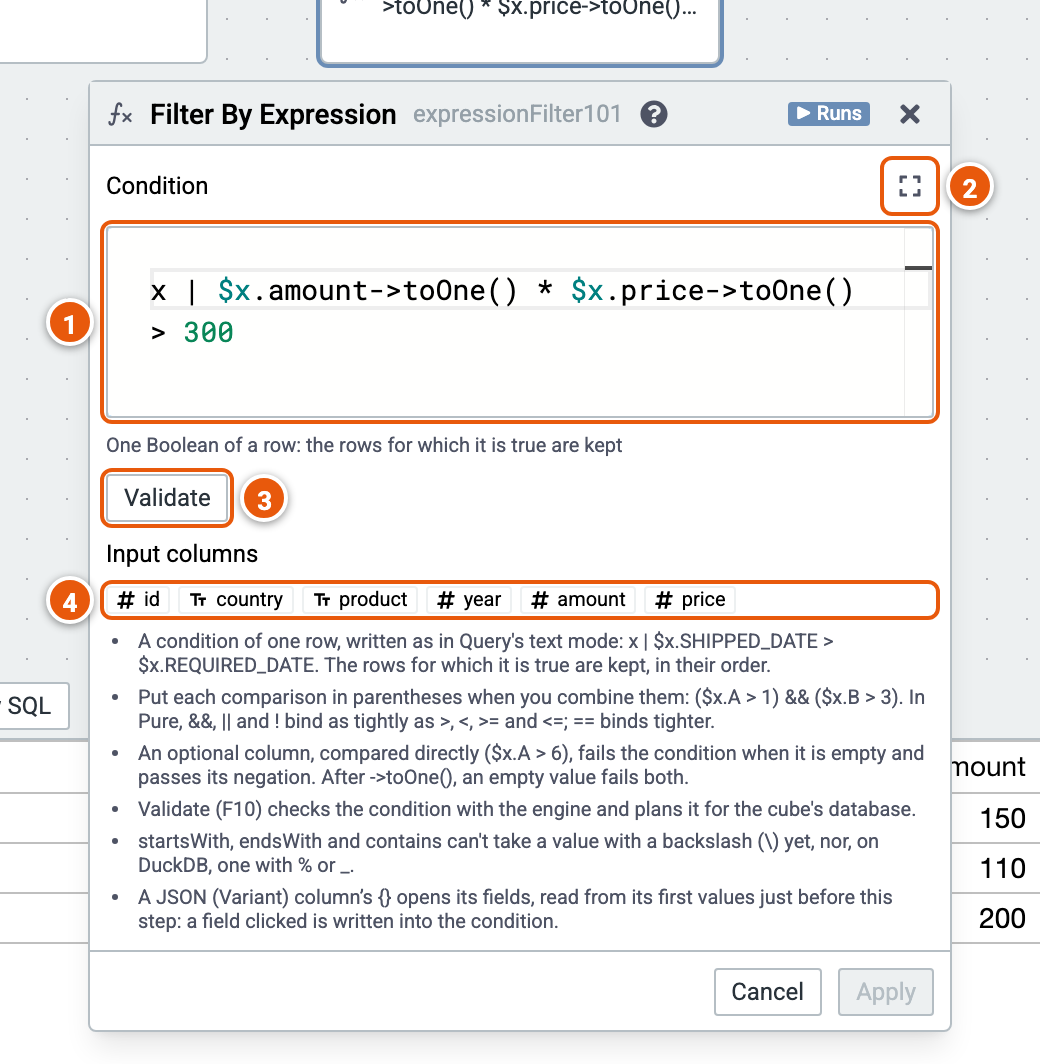
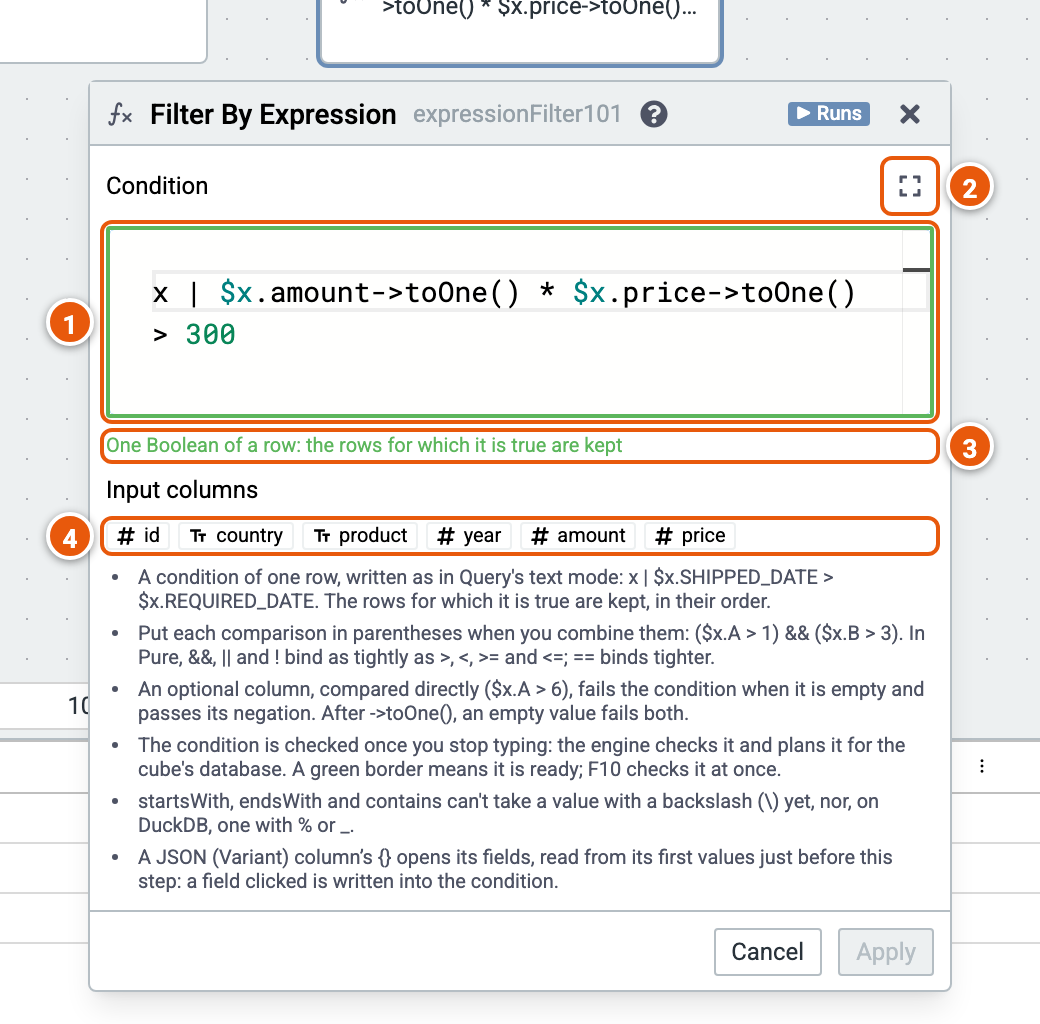
docs(cube): the guide's Filter by Expression and Extend checked as typed, with completions
Their images regenerated by the screenshot script, which no longer clicks
Validate.

diff --git a/packages/legend-cube-builder/src/stores/editors/CubeExtendDraft.ts b/packages/legend-cube-builder/src/stores/editors/CubeExtendDraft.ts
@@ -77,7 +77,7 @@ export interface CubeExtendCheckedCode {
   readonly located: JsonObject;
 }
 
-/** A row's problem from the last Validate: the engine's message, where it is in the code, and a hint */
+/** A row's problem from the last check: the engine's message, where it is in the code, and a hint */
 export interface CubeExtendRowProblem {
   readonly message: string;
   readonly location?: CubeSourceLocation | undefined;
@@ -129,7 +129,7 @@ export class CubeExtendDraft extends CubeNodeDraft<Extend> {
   /** A Variant input column's fields, opened from its chip (PLAN §11.20, V.9) */
   readonly jsonFields: CubeJsonFieldsState;
   rows: readonly CubeExtendRow[];
-  /** The typing the last Validate gave, for the rows as they were then */
+  /** The typing the last check gave, for the rows as they were then */
   typing: ExtendTyping | undefined;
   validating = false;
   /** Anything was changed; until then, `build()` gives the original back */
@@ -351,7 +351,7 @@ export class CubeExtendDraft extends CubeNodeDraft<Extend> {
     );
   }
 
-  /** A code edit drops the row's problem and type, until the next Validate */
+  /** A code edit drops the row's problem and type, until it is checked again */
   setCode(key: number, code: string): void {
     this.change(
       this.rows.map((row) =>
@@ -401,7 +401,7 @@ export class CubeExtendDraft extends CubeNodeDraft<Extend> {
 
   /**
    * Checks every row with the engine (F10): parses each code changed since
-   * the last Validate, then, when every code parses and the input is valid,
+   * the last check, then, when every code parses and the input is valid,
    * types the columns after the input, located in their codes, and plans the
    * query up to this node for the cube's database; a plan that fails is
    * planned again column by column to find the first that fails. Each

diff --git a/packages/legend-cube-builder/src/stores/editors/CubeExpressionFilterDraft.ts b/packages/legend-cube-builder/src/stores/editors/CubeExpressionFilterDraft.ts
@@ -74,7 +74,7 @@ export interface CubeConditionCheckedCode {
   readonly located: JsonObject;
 }
 
-/** The condition's problem from the last Validate: a message, where it is in the code, and a hint */
+/** The condition's problem from the last check: a message, where it is in the code, and a hint */
 export interface CubeConditionProblem {
   readonly message: string;
   readonly location?: CubeSourceLocation | undefined;
@@ -131,9 +131,9 @@ export class CubeExpressionFilterDraft extends CubeNodeDraft<ExpressionFilter> {
   code: string;
   /** What the engine made of the code the last time it parsed it */
   checked: CubeConditionCheckedCode | undefined;
-  /** The problem from the last Validate, while the code is the one validated */
+  /** The problem from the last check, while the code is the one validated */
   problem: CubeConditionProblem | undefined;
-  /** The check the last Validate gave, for the code as it was then */
+  /** The check the last check gave, for the code as it was then */
   check: ExpressionCheck | undefined;
   validating = false;
   /** Anything was changed; until then, `build()` gives the original back */
@@ -300,7 +300,7 @@ export class CubeExpressionFilterDraft extends CubeNodeDraft<ExpressionFilter> {
 
   /**
    * Checks the condition with the engine (F10): parses the code when it
-   * changed since the last Validate, checks Cube's own rules and the
+   * changed since the last check, checks Cube's own rules and the
    * database's, then, when the input is valid, checks the condition after
    * the input, located in the code, and plans the query up to this node for
    * the cube's database

diff --git a/packages/legend-application-query-e2e/src/user-guide/CubeSteps.screenshots.ts b/packages/legend-application-query-e2e/src/user-guide/CubeSteps.screenshots.ts
@@ -100,7 +100,15 @@ const STEP_CALLOUTS: Record<string, (editor: Locator) => Callout[]> = {
   expressionFilter: (editor) => [
     { n: 1, targets: [label(editor, 'Condition')], at: 'left' },
     { n: 2, targets: [label(editor, 'Expand the condition')], at: 'right' },
-    { n: 3, targets: [button(editor, 'Validate')], at: 'right' },
+    {
+      n: 3,
+      targets: [
+        editor.getByText(
+          'One Boolean of a row: the rows for which it is true are kept',
+        ),
+      ],
+      at: 'right',
+    },
     { n: 4, targets: [label(editor, 'Input columns')], at: 'left' },
   ],
   restrict: (editor) => [
@@ -199,11 +207,7 @@ const STEP_CALLOUTS: Record<string, (editor: Locator) => Callout[]> = {
       ],
       at: 'above',
     },
-    {
-      n: 4,
-      targets: [button(editor, 'Add column'), button(editor, 'Validate')],
-      at: 'right',
-    },
+    { n: 4, targets: [button(editor, 'Add column')], at: 'right' },
     { n: 5, targets: [label(editor, 'Input columns')], at: 'left' },
   ],
   explode: (editor) => [
@@ -334,9 +338,8 @@ test('Legend Cube: each step and its inputs', async ({ page }) => {
       query: { selected: step.id, nodes },
     });
     if (CUBE_STEPS_WITH_EXPRESSIONS.includes(kind)) {
-      // its expression checked by the engine, then applied
+      // its expression checked by the engine as the editor opens, then applied
       const editor = await openStep(page, step.id);
-      await button(editor, 'Validate').click();
       const apply = button(editor, 'Apply');
       await test.expect(apply).toBeEnabled();
       await apply.click();

diff --git a/packages/legend-cube-builder/src/stores/editors/__tests__/CubeExpressionFilterDraft.test.ts b/packages/legend-cube-builder/src/stores/editors/__tests__/CubeExpressionFilterDraft.test.ts
@@ -205,14 +205,14 @@ describe('Filter by Expression draft', () => {
     expect(built.check.kind).toBe('checked');
     state.applyQuery(state.document.query.replace(built));
     expect(state.analysis.validity.get('expressionFilter101')).toEqual([]);
-    // a code edit asks for another Validate, and the node gets no lambda
+    // a code edit asks for another check, and the node gets no lambda
     draft.setCode('x | $x.SHIPPED_DATE >= $x.REQUIRED_DATE');
     expect(draft.applyDisabledReason).toBe(
       'Wait for the condition to be checked, once you stop typing (F10 checks it at once)',
     );
     expect(draft.isChecked).toBe(false);
     expect(draft.build().lambda).toBeUndefined();
-    // parsed again on the next Validate only
+    // parsed again on the next check only
     await flowResult(draft.validate());
     await flowResult(draft.validate());
     expect(fake.parseExpression).toHaveBeenCalledTimes(2);
@@ -439,7 +439,7 @@ describe('Filter by Expression draft', () => {
     );
   });
 
-  test('Stays open while its condition waits for Validate, rather than storing or dropping it', async () => {
+  test('Stays open while its condition waits for its check, rather than storing or dropping it', async () => {
     const { state } = open();
     const { nodeEditor } = state;
     nodeEditor.open('expressionFilter101');

diff --git a/packages/legend-cube-builder/src/components/editors/CubeNodeEditorPanel.tsx b/packages/legend-cube-builder/src/components/editors/CubeNodeEditorPanel.tsx
@@ -162,7 +162,7 @@ export const CubeNodeEditorPanel = observer(
       .filter((schema): schema is Schema => schema !== undefined);
     const Editor = CUBE_NODE_EDITORS.get(node.type);
     const isEditable = CUBE_NODE_DRAFT_FACTORIES.has(node.type);
-    // a draft that waits, e.g. on a Validate, says why in place of its problems
+    // a draft that waits, e.g. on its code's check, says why in place of its problems
     const waiting = draft.applyDisabledReason;
     // the node's own, then those of the database it runs on (PLAN §11.11)
     const problems =

diff --git a/packages/legend-cube-builder/src/graph-manager/protocol/pure/v1/V1_CubeLambdaSerializer.ts b/packages/legend-cube-builder/src/graph-manager/protocol/pure/v1/V1_CubeLambdaSerializer.ts
@@ -92,7 +92,7 @@ const NUMBER_LITERAL_TYPES: readonly unknown[] = [
  * literal written digit for digit from the string Cube keeps, and with an
  * origin, any source information replaced by it on every value
  * specification; with none, the JSON's own source information kept, so a
- * lambda parsed with its locations is typed with them (the editor's Validate)
+ * lambda parsed with its locations is typed with them (the editor's check)
  */
 const serializeLambdaJson = (
   json: unknown,

diff --git a/docs/user-guide/cube/steps/extend.md b/docs/user-guide/cube/steps/extend.md
@@ -12,12 +12,13 @@ Here it adds revenue, amount times price. The cube runs on the sample sales (cou
 [![The Extend Columns editor, its inputs numbered](../images/steps/extend.png)](../images/steps/extend.png)
 
 1. **The new column's name**.
-2. **Its expression**, a lambda of one row: `x | $x.amount->toOne() * $x.price->toOne()`. Its type shows below it once validated.
+2. **Its expression**, a lambda of one row: `x | $x.amount->toOne() * $x.price->toOne()`. It is checked once you stop typing: the engine checks and types it. Its border turns green when it is ready, red with a problem, and its type shows below it. F10 checks the expressions at once. Apply needs them checked.
 3. **Move** a column **up** or **down**: a column can use the ones above it.
-4. **Add column**, and **Validate** (F10), which checks the expressions with the engine and types them. Apply needs it.
+4. **Add column**.
 5. **Input columns**: click one to write it in the expression last used.
 
 Good to know:
 
+- As you type, `$x.` lists the columns the expression can read, the input's and the new ones above it, with their types, and `$x.COLUMN->` the functions of the column's type. Where the engine completes Pure code, its completions follow.
 - An optional column needs `->toOne()` before arithmetic; every new column is optional.
 - A JSON (Variant) column's `{}` opens its fields: a field clicked is written into the expression, and **+ column** adds it as a new column. See [JSON columns](../json.md).

diff --git a/docs/user-guide/cube/steps/expressionFilter.md b/docs/user-guide/cube/steps/expressionFilter.md
@@ -11,13 +11,14 @@ Here it keeps the sales whose amount times price is over 300. The cube runs on t
 
 [![The Filter by Expression editor, its inputs numbered](../images/steps/expressionFilter.png)](../images/steps/expressionFilter.png)
 
-1. **The condition**, a lambda of one row, as in Query's text mode: `x | $x.amount->toOne() * $x.price->toOne() > 300`.
+1. **The condition**, a lambda of one row, as in Query's text mode: `x | $x.amount->toOne() * $x.price->toOne() > 300`. It is checked once you stop typing: the engine checks it and plans it for the cube's database. Its border turns green when it is ready, red with a problem. F10 checks it at once. Apply needs it checked.
 2. **Show more lines** of the condition.
-3. **Validate** (F10) checks the condition with the engine and plans it for the cube's database. Apply needs it.
+3. **Its check**: what the condition is once ready, or the problem found.
 4. **Input columns**: click one to write it at the end of the condition.
 
 Good to know:
 
+- As you type, `$x.` lists the input's columns with their types, and `$x.COLUMN->` the functions of the column's type. Where the engine completes Pure code, its completions follow.
 - An optional column needs `->toOne()` before arithmetic.
 - Put each comparison in parentheses when you combine them: `($x.A > 1) && ($x.B > 3)`.
 - A JSON (Variant) column's `{}` opens its fields; a field clicked is written into the condition. See [JSON columns](../json.md).

diff --git a/docs/user-guide/cube/editor-overview.md b/docs/user-guide/cube/editor-overview.md
@@ -27,7 +27,7 @@ Click the image to see it full size.
 ## The header
 
 3. **Cube**: **New** starts an empty cube, **Import** opens a cube from its spec, **Import Pure** reads a Pure query
-   into steps, and **Export** shows this cube's spec, to copy or download.
+   into steps (its border turns green once Cube can read it), and **Export** shows this cube's spec, to copy or download.
 4. **Add Items**: the palette's sources and steps, as a menu.
 5. **Examples**: ready-made cubes on sample data, to try things out.
 6. **Undo** and **Redo**: every change, opening an example included (Ctrl+Z and Ctrl+Shift+Z, or Cmd on a Mac).
